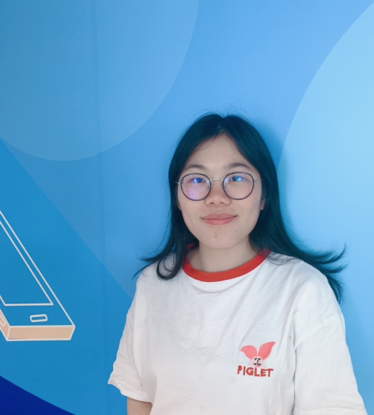
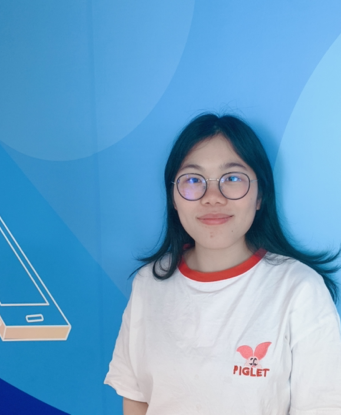
ok go 2021

diff --git a/src/index.html b/src/index.html
@@ -46,10 +46,12 @@
     <br/>
     <br/>
     <br/>
+    <br/>
+    <br/>
     <span style="background-color:rgb(255,255,255,0.25);">第二届RTSCon线上技术交流会将于2021年12月26日9:00-17:00举行</span>
 </p>
 <a id="version-info" onclick="toggleLang();return false;">English</a>
-<a class="button splash" href="https://jinshuju.net/f/BawjFQ">立即报名</a>
+<a class="button splash" href="/rts2021.html">进入RTSCon 2021</a>
 </div>
 <header class="row sticky">
 <span class="col-md-1 col-lg-2"></span>
@@ -91,7 +93,7 @@ FreeSWITCH开发者沙龙以FreeSWITCH为中心，交流音视频解决方案，
 </p>
 <br/>
 <p style="text-align:center">
-    第二届RTSCon线上技术交流会将于2021年12月26日9:00-17:00举行，<a href="https://jinshuju.net/f/BawjFQ">立即报名</a>或<a href="https://mp.weixin.qq.com/s?__biz=MjM5MzIwMzExMg==&mid=2664616259&idx=1&sn=a0e76e00fbb19290bc9bffce7dd3818c&chksm=bdbce7848acb6e92afe7a2fb929ad5749aacc61e618299acdafc6db94d0450105cf58eff7d85&mpshare=1&scene=1&srcid=1125KRfkLve3t7sZA67sv9vE&sharer_sharetime=1637823373680&sharer_shareid=dd2204b15ec86ce2306ce8926e31179d&version=3.1.20.90367&platform=mac#rd">查看更多说明</a>。
+    第二届RTSCon线上技术交流会将于2021年12月26日9:00-18:30举行，<a href="https://jinshuju.net/f/BawjFQ">立即报名</a>或<a href="/rts2021.html">查看更多说明</a>。
     <br />
     <br />
     <a href="https://mp.weixin.qq.com/s/Q0K_AjsOIQODDjfd0kB0YA" target="_blank"/>第一届RTSCon线上技术交流会于2020年12月20日9:00-17:00举行<a href="https://mp.weixin.qq.com/s/iMS0RtM9-t1u1c8ripH1uw"></a>

diff --git a/src/rts2021.html b/src/rts2021.html
@@ -467,7 +467,7 @@ ACK ...
 
 	<div class="row">
 		<div class="col-sm-12 col-md-3 col-lg-3">
-			<img src="rts2021/chaixiaoyan.png" class="section media">
+			<img src="rts2021/chaixiaoyan.png" class="section media" style="width:100%">
 		</div>
 		<div class="col-sm-12 col-md-9 col-lg-9">
 			<h2>柴小燕</h2>
